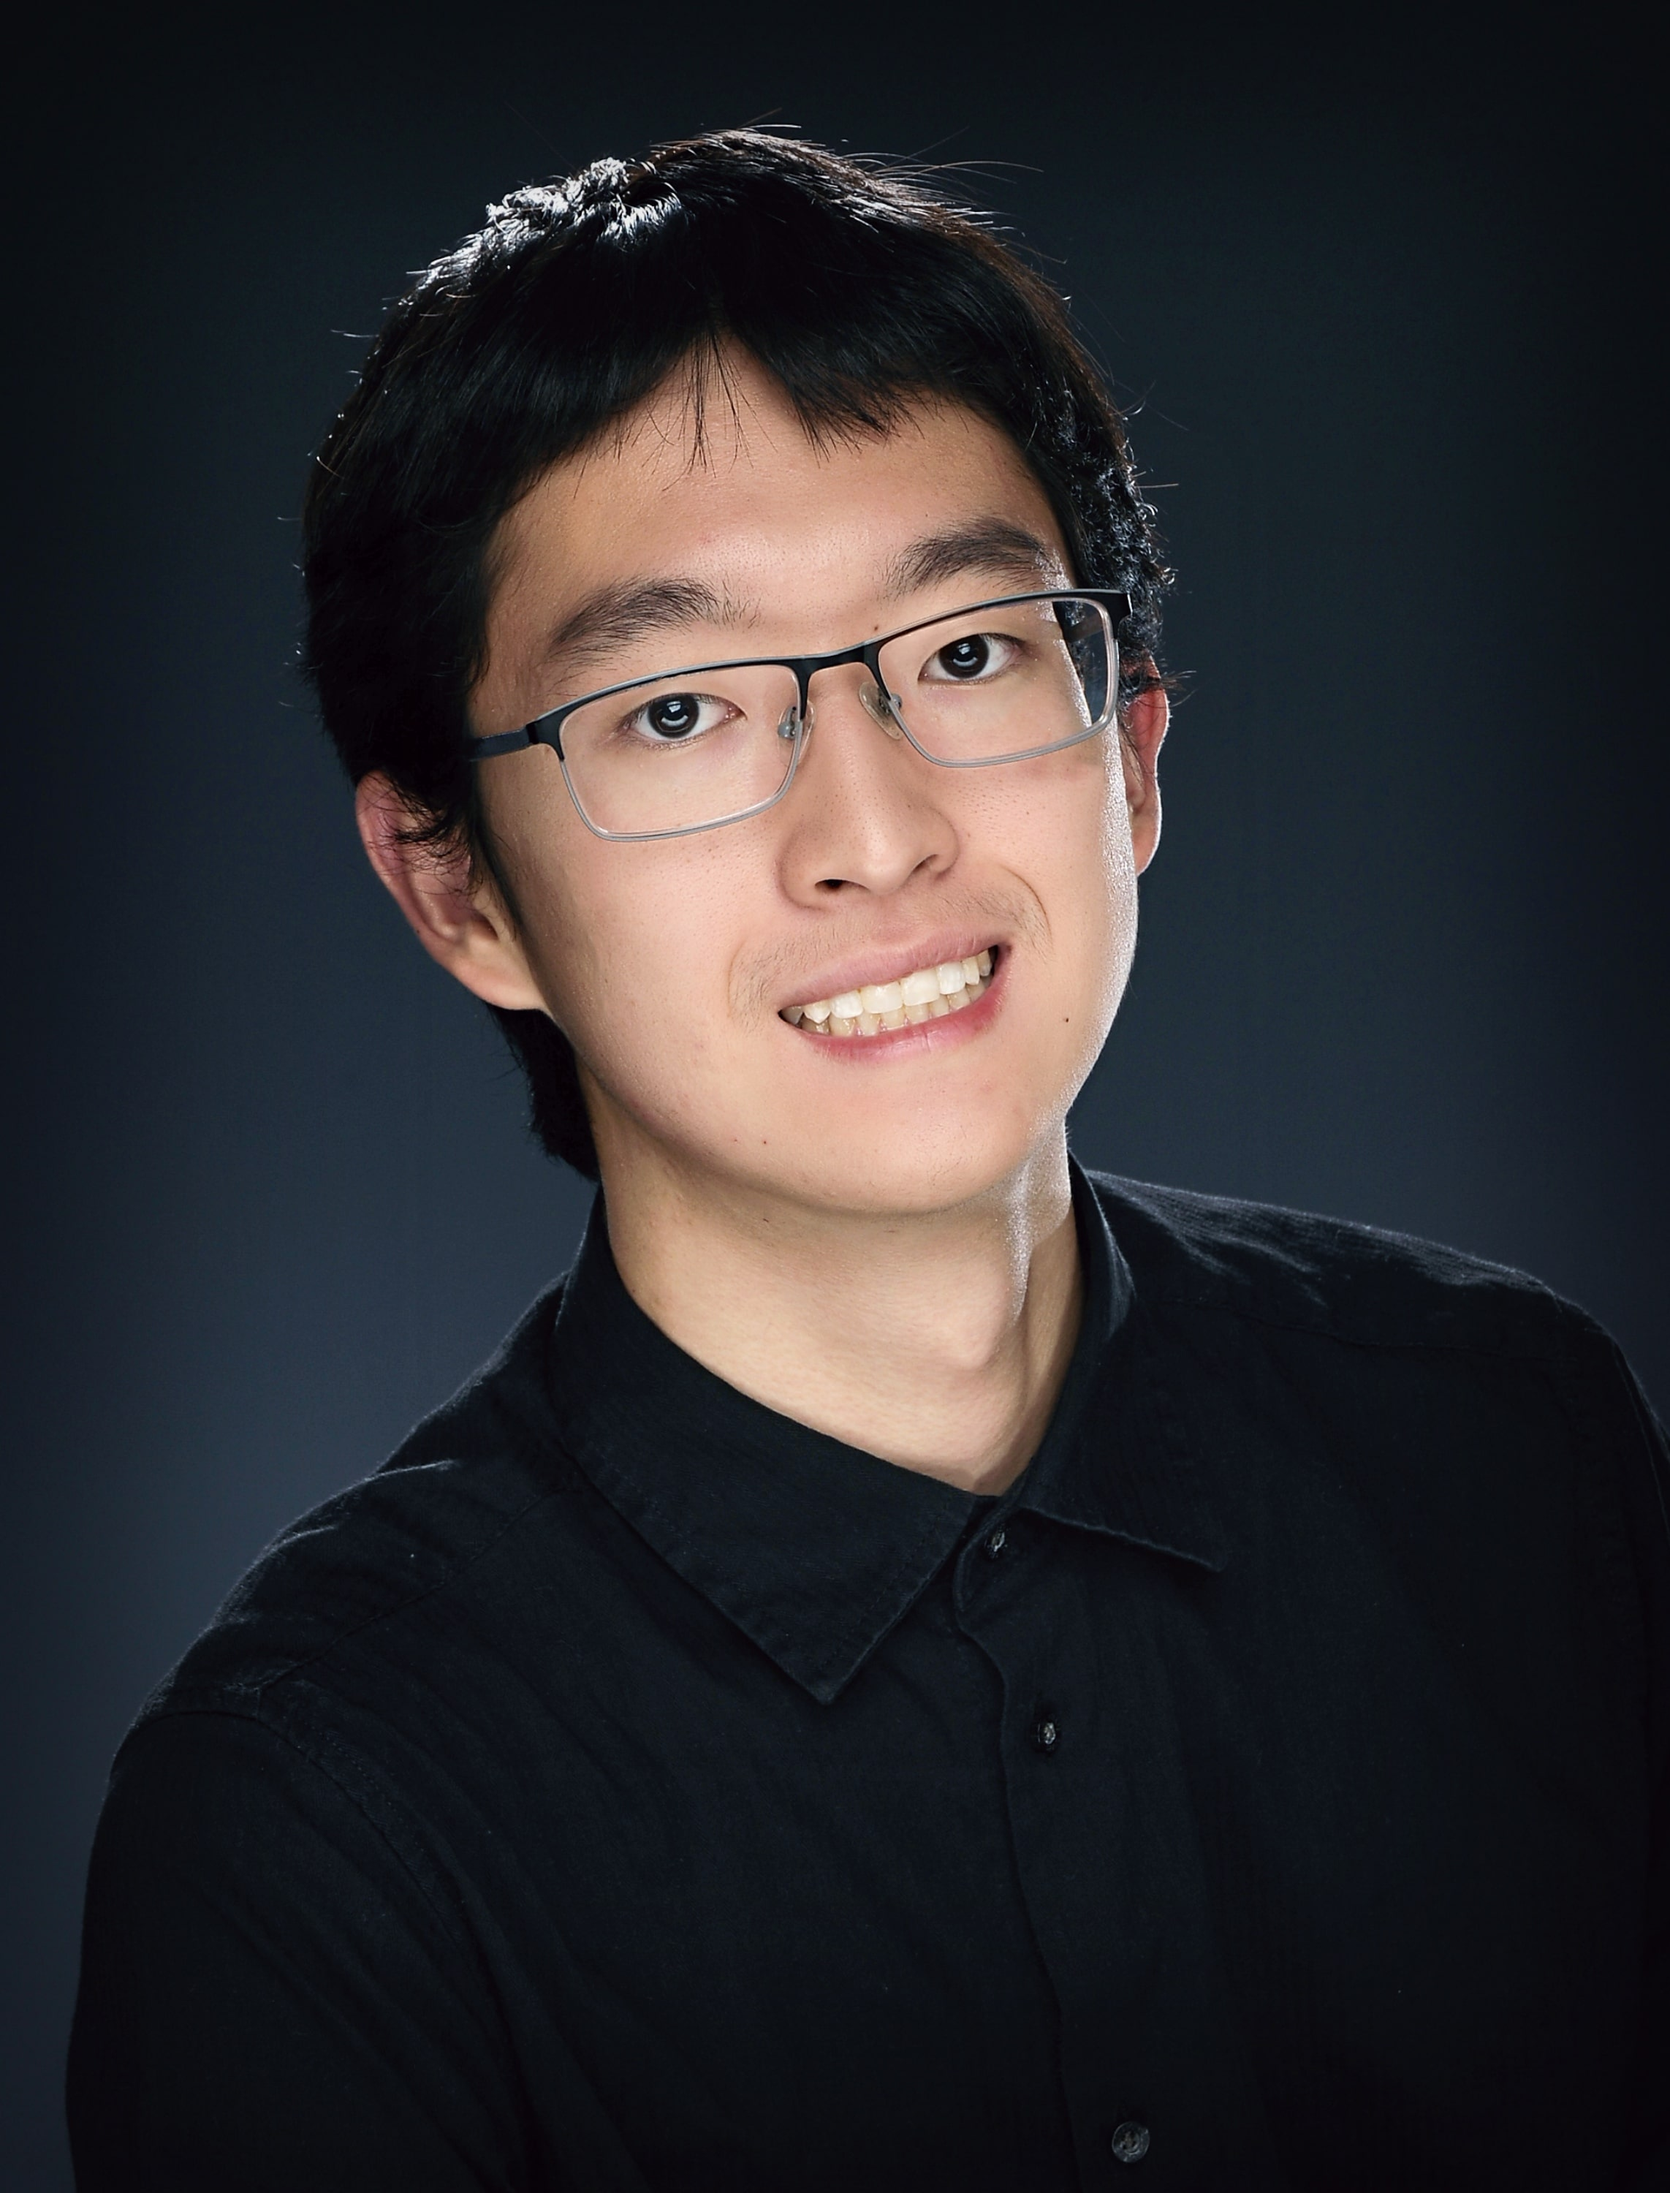
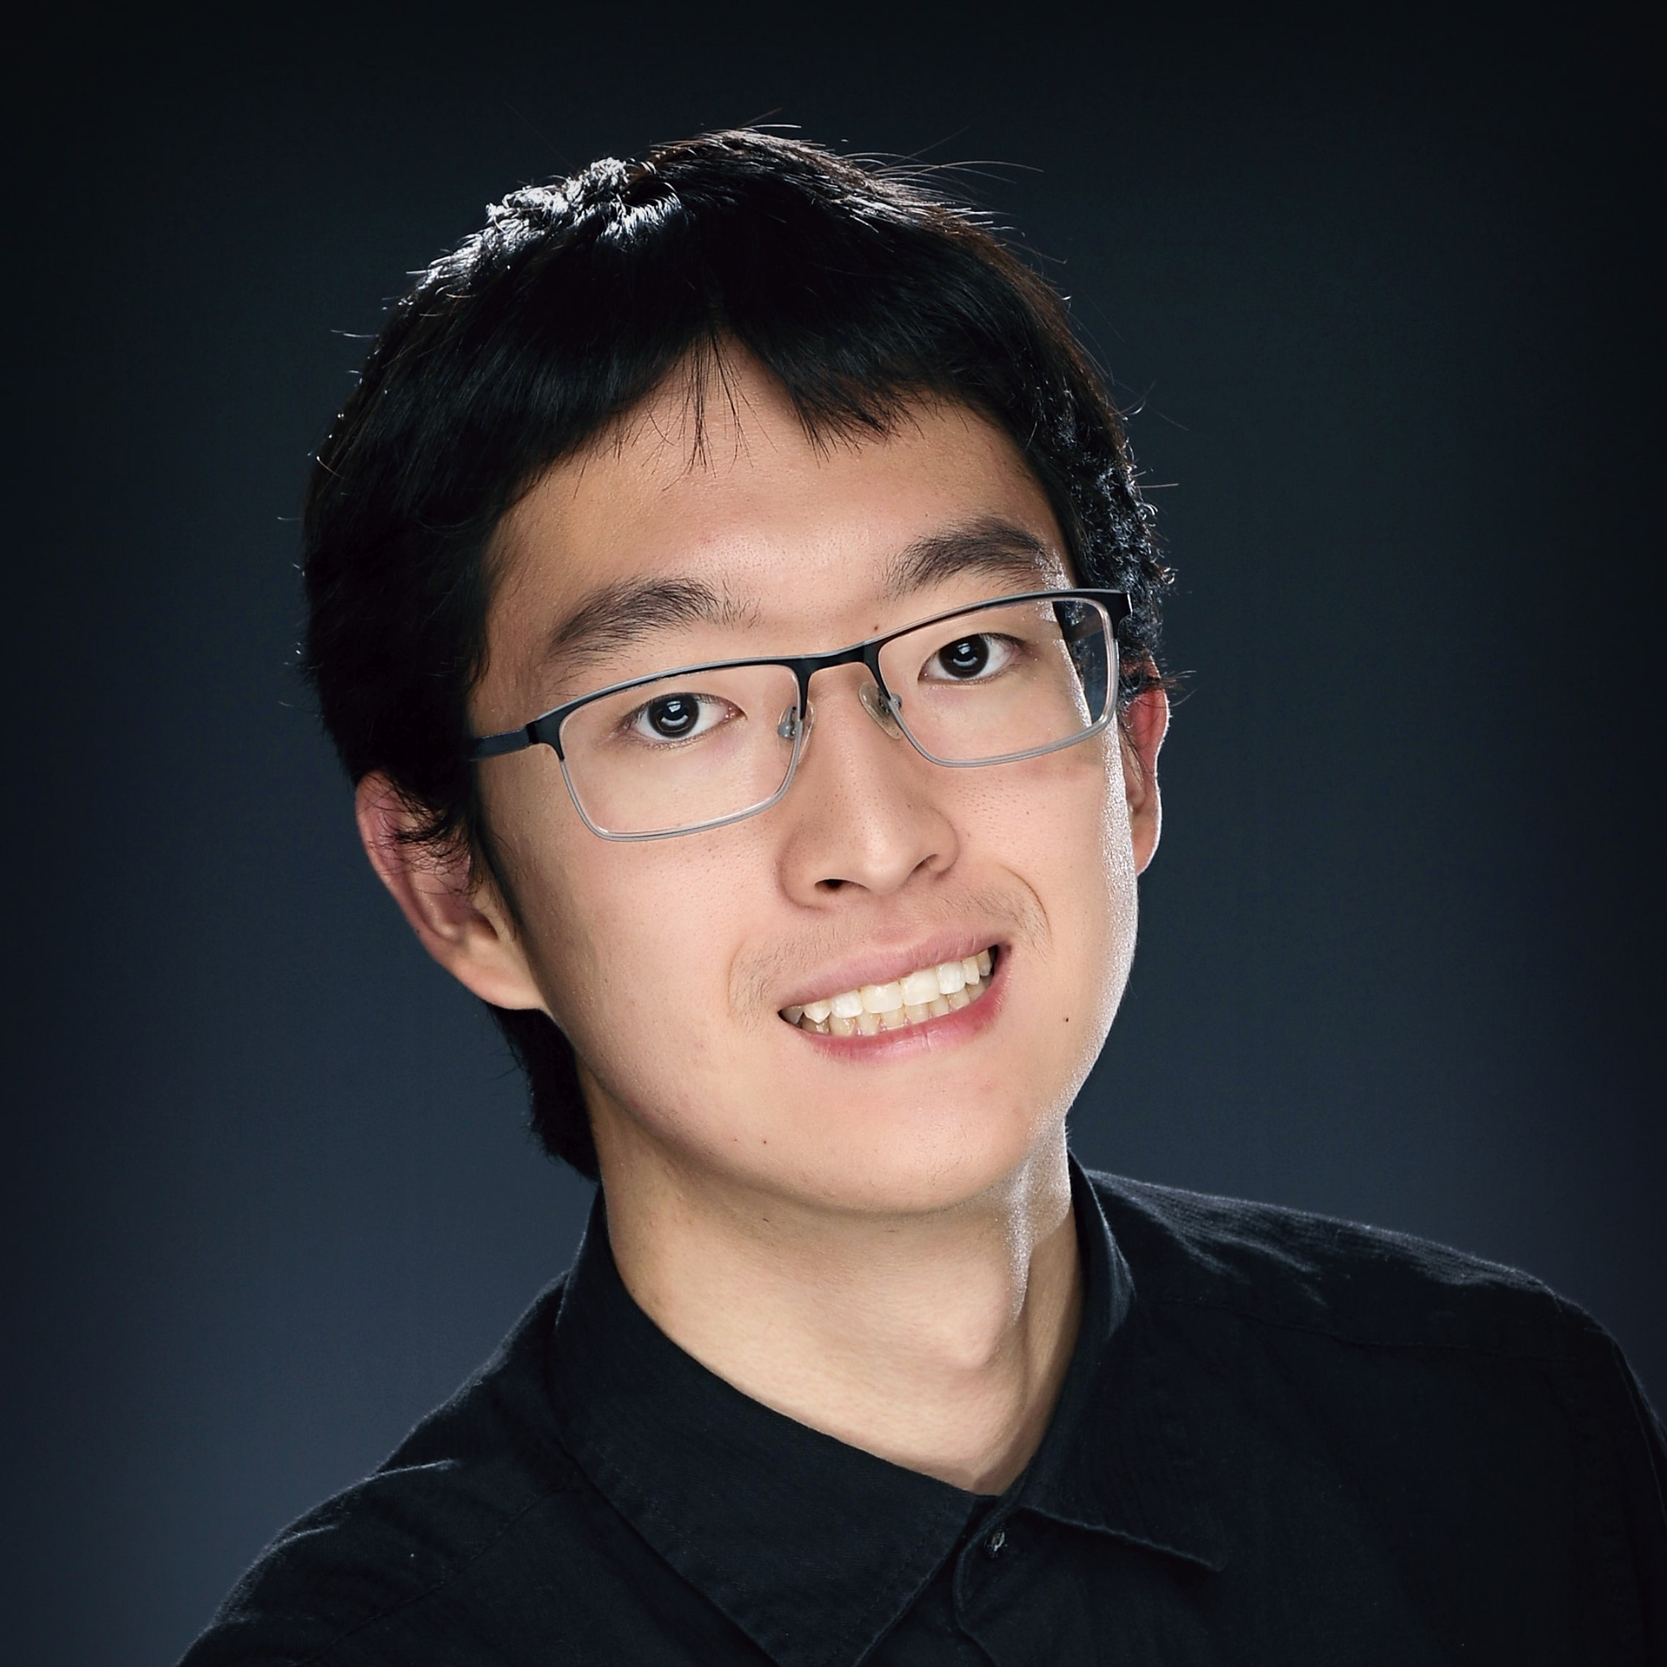
Update profile photo

diff --git a/src/pages/Home.js b/src/pages/Home.js
@@ -13,6 +13,9 @@ function Home({lightMode}) {
                 <h1>
                     I'm a developer studying at the Georgia Institute of Technology
                 </h1>
+                <img src={"./assets/profile.JPG"} style={{
+                    width: "30%", paddingLeft:"10%", borderRadius:"50%"
+                }}/>
             </section>
         </div>
     )
